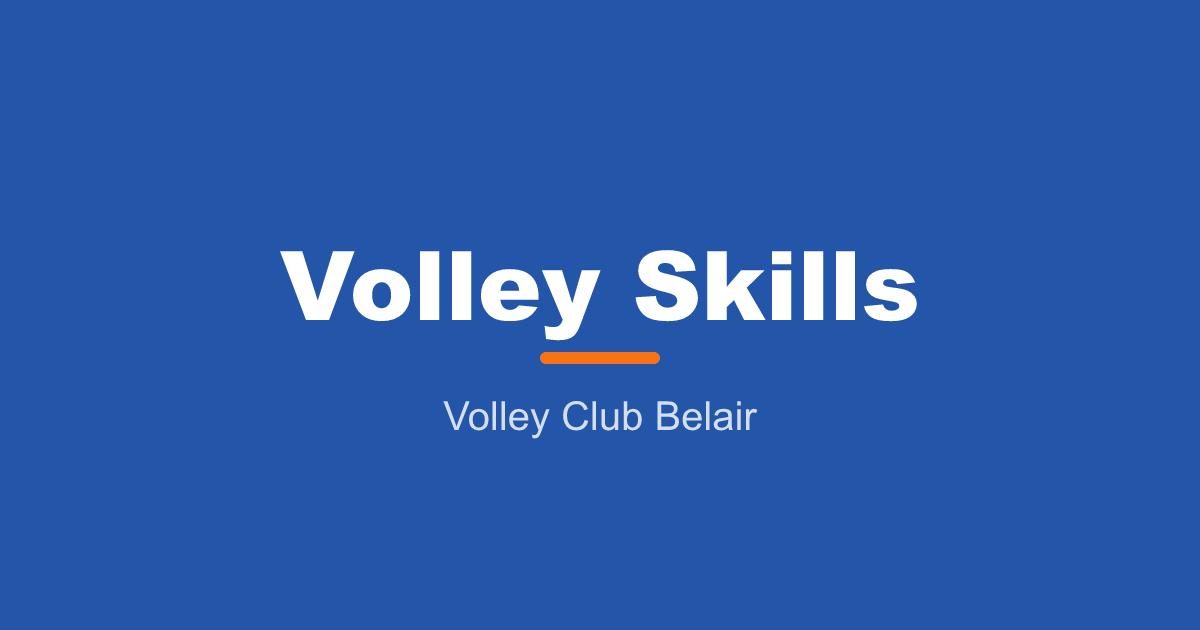
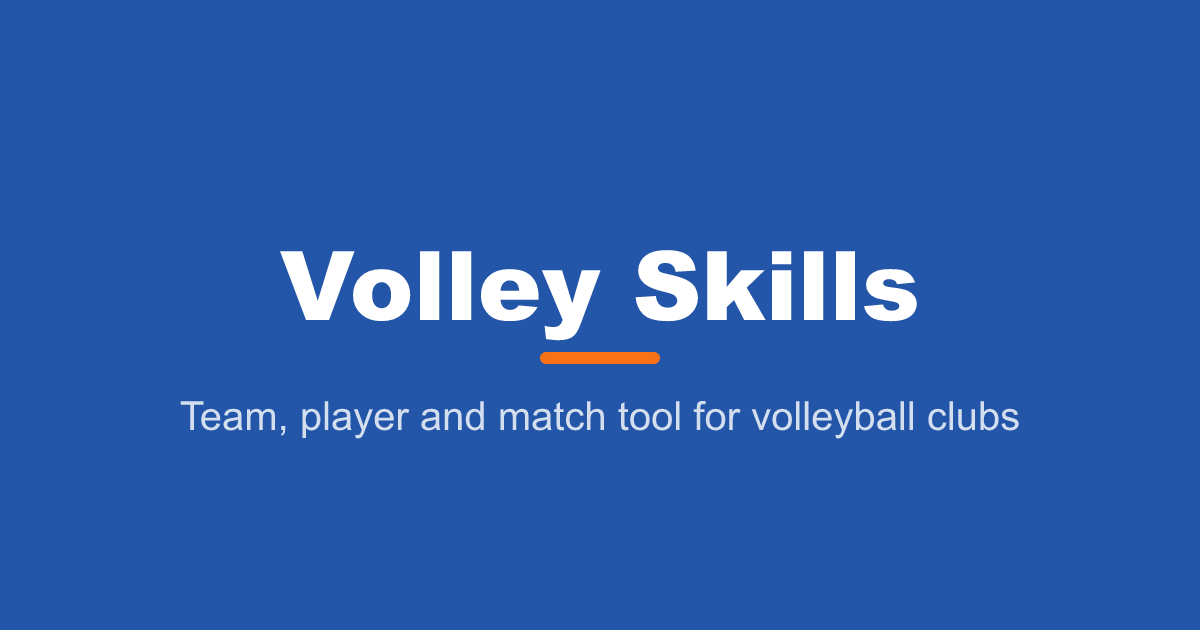
chore: make the app club-agnostic — no hardcoded club name in UI, metadata, award cards or copy
Award cards show the team's own club (team.club). Internal vcb.* storage keys are kept so users keep their saved settings.

Changed region(s): [[0.1542, 0.6333, 0.8633, 0.6937]]

diff --git a/src/teams/CreateTeamDialog.test.tsx b/src/teams/CreateTeamDialog.test.tsx
@@ -20,14 +20,14 @@ describe('CreateTeamDialog', () => {
     render(<CreateTeamDialog onClose={vi.fn()} onCreated={onCreated} />);
 
     fireEvent.change(screen.getByLabelText('Name'), { target: { value: 'U17' } });
-    fireEvent.change(screen.getByLabelText('Club'), { target: { value: 'VCB' } });
+    fireEvent.change(screen.getByLabelText('Club'), { target: { value: 'Demo VC' } });
     fireEvent.change(screen.getByLabelText('Age group'), { target: { value: 'U17' } });
     fireEvent.change(screen.getByLabelText('Season'), { target: { value: '2026-27' } });
     fireEvent.click(screen.getByText('Create'));
 
     await waitFor(() => expect(onCreated).toHaveBeenCalled());
     expect(createTeamSpy).toHaveBeenCalledWith(
-      { name: 'U17', club: 'VCB', ageGroup: 'U17', season: '2026-27', description: '' },
+      { name: 'U17', club: 'Demo VC', ageGroup: 'U17', season: '2026-27', description: '' },
       'coach-uid',
       'coach@example.com'
     );
@@ -43,7 +43,7 @@ describe('CreateTeamDialog', () => {
     render(<CreateTeamDialog onClose={vi.fn()} onCreated={onCreated} />);
 
     fireEvent.change(screen.getByLabelText('Name'), { target: { value: 'U17' } });
-    fireEvent.change(screen.getByLabelText('Club'), { target: { value: 'VCB' } });
+    fireEvent.change(screen.getByLabelText('Club'), { target: { value: 'Demo VC' } });
     fireEvent.change(screen.getByLabelText('Age group'), { target: { value: 'U17' } });
     fireEvent.change(screen.getByLabelText('Season'), { target: { value: '2026-27' } });
     fireEvent.click(screen.getByText('Create'));
@@ -59,7 +59,7 @@ describe('CreateTeamDialog', () => {
     const createTeamSpy = vi.spyOn(teamsApi, 'createTeam').mockReturnValue(new Promise(() => undefined));
     render(<CreateTeamDialog onClose={vi.fn()} onCreated={vi.fn()} />);
     fireEvent.change(screen.getByLabelText('Name'), { target: { value: 'U17' } });
-    fireEvent.change(screen.getByLabelText('Club'), { target: { value: 'VCB' } });
+    fireEvent.change(screen.getByLabelText('Club'), { target: { value: 'Demo VC' } });
     fireEvent.change(screen.getByLabelText('Age group'), { target: { value: 'U17' } });
     fireEvent.change(screen.getByLabelText('Season'), { target: { value: '2026-27' } });
     fireEvent.click(screen.getByText('Create'));

diff --git a/src/layout/usePageMeta.test.ts b/src/layout/usePageMeta.test.ts
@@ -12,20 +12,20 @@ describe('usePageMeta', () => {
   });
 
   it('formats the title', () => {
-    expect(pageTitle('Home')).toBe('Home · Volley Skills · VCB');
+    expect(pageTitle('Home')).toBe('Home · Volley Skills');
   });
 
   it('sets title, description and noindex by default', () => {
     renderHook(() => usePageMeta({ title: 'Home' }));
-    expect(document.title).toBe('Home · Volley Skills · VCB');
+    expect(document.title).toBe('Home · Volley Skills');
     expect(meta('description')).toBe(DEFAULT_DESCRIPTION);
     expect(meta('robots')).toBe('noindex, nofollow');
     expect(canonical()).toBeNull();
   });
 
   it('sets index + canonical for public pages', () => {
-    renderHook(() => usePageMeta({ title: 'Sign in', description: 'Sign in to VCB', robots: 'index', canonicalPath: '/login' }));
-    expect(meta('description')).toBe('Sign in to VCB');
+    renderHook(() => usePageMeta({ title: 'Sign in', description: 'Sign in to Volley Skills', robots: 'index', canonicalPath: '/login' }));
+    expect(meta('description')).toBe('Sign in to Volley Skills');
     expect(meta('robots')).toBe('index, follow');
     expect(canonical()).toMatch(/\/login$/);
   });
@@ -33,7 +33,7 @@ describe('usePageMeta', () => {
   it('restores defaults on unmount', () => {
     const { unmount } = renderHook(() => usePageMeta({ title: 'Sign in', robots: 'index', canonicalPath: '/login' }));
     unmount();
-    expect(document.title).toBe('Volley Skills · VCB');
+    expect(document.title).toBe('Volley Skills');
     expect(meta('robots')).toBe('noindex, nofollow');
     expect(canonical()).toBeNull();
   });

diff --git a/src/awards/card/drawAwardCard.test.ts b/src/awards/card/drawAwardCard.test.ts
@@ -4,7 +4,7 @@ import { CARD_H, CARD_W, drawAwardCard, drawTitleCard, type CardModel } from './
 import { recordingCtx } from './testCtx';
 
 const card: CardModel = {
-  key: 'mvp', awardTitle: 'MVP', name: 'Lena P.', number: 12, statLine: '6.2 MVP pts', footer: 'vs Rivals · 12 Oct 2026', teamName: 'U17 Girls', note: '',
+  key: 'mvp', awardTitle: 'MVP', name: 'Lena P.', number: 12, statLine: '6.2 MVP pts', footer: 'vs Rivals · 12 Oct 2026', teamName: 'U17 Girls', clubName: 'Demo VC', note: '',
 };
 const fakeImage = { width: 800, height: 600 } as unknown as ImageBitmap;
 
@@ -13,7 +13,14 @@ describe('drawAwardCard', () => {
     const { ctx, texts } = recordingCtx();
     drawAwardCard(ctx, card, PRESETS[0], { photo: null, background: null }, 1);
     const all = texts();
-    for (const s of ['MVP', 'Lena P.', '6.2 MVP pts', 'vs Rivals · 12 Oct 2026', 'U17 GIRLS']) expect(all).toContain(s);
+    for (const s of ['MVP', 'Lena P.', '6.2 MVP pts', 'vs Rivals · 12 Oct 2026', 'DEMO VC', 'U17 GIRLS']) expect(all).toContain(s);
+  });
+
+  it('omits the club line when the team has no club', () => {
+    const { ctx, texts } = recordingCtx();
+    drawAwardCard(ctx, { ...card, clubName: '  ' }, PRESETS[0], { photo: null, background: null }, 1);
+    expect(texts()).toContain('U17 GIRLS');
+    expect(texts()).not.toContain('');
   });
 
   it('draws the jersey number when there is no photo, the photo otherwise', () => {

diff --git a/index.html b/index.html
@@ -3,14 +3,14 @@
   <head>
     <meta charset="UTF-8" />
     <meta name="viewport" content="width=device-width, initial-scale=1.0" />
-    <title>Volley Skills · VCB</title>
-    <meta name="description" content="Volley Skills — team, player, training and match scouting tool for Volley Club Belair." />
+    <title>Volley Skills</title>
+    <meta name="description" content="Volley Skills — team, player, training and match scouting tool for volleyball clubs." />
     <meta name="color-scheme" content="light dark" />
     <meta name="theme-color" content="#2356A8" media="(prefers-color-scheme: light)" />
     <meta name="theme-color" content="#1C4586" media="(prefers-color-scheme: dark)" />
     <meta property="og:type" content="website" />
-    <meta property="og:title" content="Volley Skills · VCB" />
-    <meta property="og:description" content="Team, player, training and match scouting tool for Volley Club Belair." />
+    <meta property="og:title" content="Volley Skills" />
+    <meta property="og:description" content="Team, player, training and match scouting tool for volleyball clubs." />
     <meta property="og:image" content="__SITE_URL__/og-image.png" />
     <meta property="og:url" content="__SITE_URL__/login" />
     <meta name="twitter:card" content="summary_large_image" />

diff --git a/src/awards/card/drawAwardCard.ts b/src/awards/card/drawAwardCard.ts
@@ -12,7 +12,7 @@ const TEXT_W = 920;
 
 export interface CardModel {
   key: string; awardTitle: string; name: string; number: number | null;
-  statLine: string | null; footer: string; teamName: string; note: string;
+  statLine: string | null; footer: string; teamName: string; clubName: string; note: string;
 }
 type Img = ImageBitmap | HTMLCanvasElement;
 export interface CardArt { photo: Img | null; background: Img | null }
@@ -48,8 +48,8 @@ function text(ctx: CanvasRenderingContext2D, s: string, y: number, font: string,
   ctx.restore();
 }
 
-function drawHeader(ctx: CanvasRenderingContext2D, card: Pick<CardModel, 'teamName'>, theme: CardTheme, alpha: number) {
-  text(ctx, 'VOLLEY CLUB BELAIR', 150, '700 34px Inter, system-ui, sans-serif', theme.muted, alpha);
+function drawHeader(ctx: CanvasRenderingContext2D, card: Pick<CardModel, 'teamName' | 'clubName'>, theme: CardTheme, alpha: number) {
+  if (card.clubName.trim()) text(ctx, card.clubName.trim().toUpperCase(), 150, '700 34px Inter, system-ui, sans-serif', theme.muted, alpha);
   text(ctx, card.teamName.toUpperCase(), 200, '600 30px Inter, system-ui, sans-serif', theme.muted, alpha);
 }
 

diff --git a/src/awards/card/cardTheme.ts b/src/awards/card/cardTheme.ts
@@ -1,7 +1,7 @@
 export interface CardTheme { id: string; label: string; bgFrom: string; bgTo: string; accent: string; text: string; muted: string }
 
 export const PRESETS: CardTheme[] = [
-  { id: 'navy', label: 'VCB Navy', bgFrom: '#1C4586', bgTo: '#0B1B36', accent: '#F97316', text: '#FFFFFF', muted: 'rgba(255,255,255,0.75)' },
+  { id: 'navy', label: 'Navy', bgFrom: '#1C4586', bgTo: '#0B1B36', accent: '#F97316', text: '#FFFFFF', muted: 'rgba(255,255,255,0.75)' },
   { id: 'gold', label: 'Gold Night', bgFrom: '#1A1A1A', bgTo: '#3A2A05', accent: '#F5C542', text: '#FFFFFF', muted: 'rgba(255,255,255,0.75)' },
   { id: 'court', label: 'Court Orange', bgFrom: '#F97316', bgTo: '#B4410B', accent: '#FFFFFF', text: '#FFFFFF', muted: 'rgba(255,255,255,0.8)' },
   { id: 'light', label: 'Clean Light', bgFrom: '#F8FAFC', bgTo: '#E2E8F0', accent: '#2356A8', text: '#0F172A', muted: '#475569' },

diff --git a/src/teams/teamsImport.test.ts b/src/teams/teamsImport.test.ts
@@ -4,11 +4,11 @@ import { validateTeamRows } from './teamsImport';
 describe('validateTeamRows', () => {
   it('accepts a full row', () => {
     const result = validateTeamRows([
-      { name: 'VCB U15', club: 'VCB', ageGroup: 'U15', season: '2026-27', description: 'girls' },
+      { name: 'U15 Girls', club: 'Demo VC', ageGroup: 'U15', season: '2026-27', description: 'girls' },
     ]);
     expect(result.errors).toEqual([]);
     expect(result.inputs).toEqual([
-      { name: 'VCB U15', club: 'VCB', ageGroup: 'U15', season: '2026-27', description: 'girls' },
+      { name: 'U15 Girls', club: 'Demo VC', ageGroup: 'U15', season: '2026-27', description: 'girls' },
     ]);
   });
 

diff --git a/src/awards/exportCards.test.ts b/src/awards/exportCards.test.ts
@@ -10,8 +10,8 @@ describe('exportCards', () => {
   });
 
   it('file names', () => {
-    expect(cardFileName('mvp', { kind: 'match', date: '2026-10-12', opponent: 'VC Rivals / B' })).toBe('vcb-mvp-2026-10-12-vs-VC-Rivals-B.png');
-    expect(cardFileName('c-123', { kind: 'season', season: '2026-27' })).toBe('vcb-c-123-season-2026-27.png');
+    expect(cardFileName('mvp', { kind: 'match', date: '2026-10-12', opponent: 'VC Rivals / B' })).toBe('award-mvp-2026-10-12-vs-VC-Rivals-B.png');
+    expect(cardFileName('c-123', { kind: 'season', season: '2026-27' })).toBe('award-c-123-season-2026-27.png');
   });
 
   it('shares when files can be shared', async () => {

diff --git a/src/awards/AwardsPresent.test.tsx b/src/awards/AwardsPresent.test.tsx
@@ -4,7 +4,7 @@ import { PRESETS } from './card/cardTheme';
 import type { CardModel } from './card/drawAwardCard';
 import { AwardsPresent } from './AwardsPresent';
 
-const model = (key: string, name: string): CardModel => ({ key, awardTitle: key, name, number: 7, statLine: null, footer: '', teamName: 'U17', note: '' });
+const model = (key: string, name: string): CardModel => ({ key, awardTitle: key, name, number: 7, statLine: null, footer: '', teamName: 'U17', clubName: '', note: '' });
 const cards = [
   { key: 'server', title: 'Best server', model: model('server', 'Ana L.') },
   { key: 'mvp', title: 'MVP', model: model('mvp', 'Bea S.') },

diff --git a/src/home/homeFeed.test.ts b/src/home/homeFeed.test.ts
@@ -5,7 +5,7 @@ import type { Team } from '../types/team';
 import { addDays, liveMatches, nextUp, recentResults, todayIso } from './homeFeed';
 
 const team = (id: string): Team => ({
-  id, name: id.toUpperCase(), club: 'VCB', ageGroup: 'U17', season: '2026-27', description: '', notes: '',
+  id, name: id.toUpperCase(), club: 'Demo VC', ageGroup: 'U17', season: '2026-27', description: '', notes: '',
   adminEmails: [], developmentPlan: { shortTermObjectives: [], seasonObjectives: [], generalNotes: '' }, createdBy: '', createdAt: null,
 });
 const match = (id: string, date: string, status: Match['status'], setsUs = 0, setsThem = 0): Match => ({

diff --git a/vite.config.ts b/vite.config.ts
@@ -4,7 +4,7 @@ import { robotsTxt, sitemapXml } from './src/seo/seoRoutes';
 
 function seoFiles(origin: string): Plugin {
   return {
-    name: 'vcb-seo-files',
+    name: 'seo-files',
     apply: 'build',
     generateBundle() {
       this.emitFile({ type: 'asset', fileName: 'robots.txt', source: robotsTxt(origin) });
@@ -15,7 +15,7 @@ function seoFiles(origin: string): Plugin {
 
 function siteUrlToken(origin: string): Plugin {
   return {
-    name: 'vcb-site-url-token',
+    name: 'site-url-token',
     transformIndexHtml: (html) => html.split('__SITE_URL__').join(origin),
   };
 }

diff --git a/src/auth/LoginPage.tsx b/src/auth/LoginPage.tsx
@@ -13,7 +13,7 @@ import { saveEmailForSignIn } from './emailLinkStorage';
 const googleProvider = new GoogleAuthProvider();
 
 export function LoginPage() {
-  usePageMeta({ title: 'Sign in', description: 'Sign in to Volley Skills, the Volley Club Belair team tool.', robots: 'index', canonicalPath: '/login' });
+  usePageMeta({ title: 'Sign in', description: 'Sign in to Volley Skills, the team tool for volleyball clubs.', robots: 'index', canonicalPath: '/login' });
   const navigate = useNavigate();
   const [email, setEmail] = useState('');
   const [sent, setSent] = useState(false);
